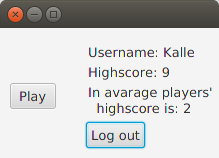
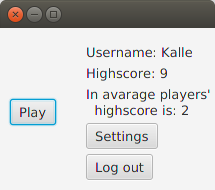
päivitettyjä kuvia

diff --git a/Muistipeli/src/main/java/muistipeli/ui/UI.java b/Muistipeli/src/main/java/muistipeli/ui/UI.java
@@ -90,24 +90,28 @@ public class UI extends Application {
         componentsReg.getChildren().add(registerReg);
 
         Scene reg = new Scene(componentsReg);
+        
 
         Label usernameIn = new Label("");
         Button logOut = new Button("Log out");
         Button play = new Button("Play");
+        Button settings = new Button("Settings");
         Label result = new Label("");
         Label highScore = new Label("");
         Label avarage = new Label("");
-        usernameIn.setPadding(new Insets(0, 2, 2, 2));
-        logOut.setPadding(new Insets(5, 5, 5, 5));
-        highScore.setPadding(new Insets(2, 2, 2, 2));
-        avarage.setPadding(new Insets(2, 2, 6, 2));
+//        usernameIn.setPadding(new Insets(0, 2, 2, 2));
+//        logOut.setPadding(new Insets(5, 5, 5, 5));
+//        highScore.setPadding(new Insets(2, 2, 2, 2));
+//        avarage.setPadding(new Insets(2, 2, 6, 2));
 
         VBox menu = new VBox();
         menu.setPadding(new Insets(0, 0, 0, 30));
+        menu.setSpacing(5);
 
         menu.getChildren().add(usernameIn);
         menu.getChildren().add(highScore);
         menu.getChildren().add(avarage);
+        menu.getChildren().add(settings);
         menu.getChildren().add(logOut);
 
         BorderPane componentsIn = new BorderPane();
@@ -117,6 +121,39 @@ public class UI extends Application {
         componentsIn.setRight(menu);
 
         Scene in = new Scene(componentsIn);
+        
+        
+        Button changePassword = new Button("Change password");
+        Button deleteProfile = new Button("Delete profile");
+        Button backFromSettings = new Button("Back");
+        
+        VBox settingsMenu = new VBox();
+        settingsMenu.setSpacing(5);
+        settingsMenu.setPadding(new Insets(10, 10, 10, 10));
+        
+        settingsMenu.getChildren().add(backFromSettings);
+        settingsMenu.getChildren().add(changePassword);
+        settingsMenu.getChildren().add(deleteProfile);
+        
+        Scene settingsScene = new Scene(settingsMenu);
+        
+        
+        Label newPasswordLabel = new Label("New password");
+        TextField newPassword = new TextField();
+        Button changePasswordNow = new Button("Change password");
+        Button backToSettings = new Button("Back");
+        
+        VBox changePasswordMenu = new VBox();
+        changePasswordMenu.setSpacing(5);
+        changePasswordMenu.setPadding(new Insets(10, 10, 10, 10));
+        
+        changePasswordMenu.getChildren().add(newPasswordLabel);
+        changePasswordMenu.getChildren().add(newPassword);
+        changePasswordMenu.getChildren().add(changePasswordNow);
+        changePasswordMenu.getChildren().add(backToSettings);
+        
+        Scene changePasswordScene = new Scene(changePasswordMenu);
+        
 
         register.setOnAction((event) -> {
             username.setText("");
@@ -134,6 +171,7 @@ public class UI extends Application {
         logIn.setOnAction((event) -> {
             if (service.logIn(username.getText(), password.getText())) {
 
+                settings.setVisible(true);
                 usernameIn.setText("Username: " + service.getLoggedIn().getUsername());
                 highScore.setText("Highscore: " + service.getLoggedIn().getHighScore());
                 avarage.setText("In avarage players' \n  highscore is: " + service.getAvarageHighScore());
@@ -145,6 +183,7 @@ public class UI extends Application {
         });
         
         playAsGuest.setOnAction((event) -> {
+            settings.setVisible(false);
             usernameIn.setText("");
             highScore.setText("");
             avarage.setText("In avarage players' \n  highscore is: " + service.getAvarageHighScore());
@@ -163,6 +202,34 @@ public class UI extends Application {
             password.setText("");
             result.setText("");
             window.setScene(home);
+        });
+        
+        settings.setOnAction((event) -> {
+            window.setScene(settingsScene);
+        });
+        
+        changePassword.setOnAction((event) -> {
+            newPassword.setText("");
+            window.setScene(changePasswordScene);
+        });
+        
+        changePasswordNow.setOnAction((event) -> {
+            service.changePassword(newPassword.getText());
+            window.setScene(settingsScene);
+            
+        });
+        
+        backToSettings.setOnAction((event) -> {
+            window.setScene(settingsScene);
+        });
+        
+        deleteProfile.setOnAction((event) -> {
+            service.deleteProfile(service.getLoggedIn().getUsername());
+            window.setScene(home);
+        });
+        
+        backFromSettings.setOnAction((event) -> {
+            window.setScene(in);
         });
 
         window.setScene(home);

diff --git a/Muistipeli/src/test/java/MuistipeliTest.java b/Muistipeli/src/test/java/MuistipeliTest.java
@@ -5,6 +5,7 @@
  */
 
 
+import muistipeli.dao.UserDao;
 import muistipeli.domain.Game;
 import muistipeli.domain.Service;
 import muistipeli.domain.User;
@@ -23,16 +24,19 @@ public class MuistipeliTest {
     
     User user;
     Service service;
+    UserDao userDao;
     
     @Before
     public void setUp() {
         user = new User("Liisa", "l", 5);
         service = new Service();
         service.createProfile("testUser", "p");
+        userDao = new UserDao();
     }
     
     @After
     public void tearDown() {
+        service.deleteProfile("testUser");
         service.deleteProfile("testUser2");
     }
     
@@ -52,7 +56,7 @@ public class MuistipeliTest {
     }
     
     @Test
-    public void createProfileWhenUsernameDoNotExist() {
+    public void createProfileWhenUsernameDoesNotExist() {
         assertEquals(true, service.createProfile("testUser2", "p2"));
     }
     
@@ -67,7 +71,7 @@ public class MuistipeliTest {
     }
     
     @Test
-    public void logInWhenUsernameDoNotExist() {
+    public void logInWhenUsernameDoesNotExist() {
         assertEquals(false, service.logIn("testUser3", "p"));
     }
     
@@ -79,7 +83,7 @@ public class MuistipeliTest {
     
     @Test
     public void logOutSetsLoggedInToNull() {
-        service.logIn("Liisa", "l");
+        service.logIn("testUser", "p");
         service.logOut();
         assertEquals(null, service.getLoggedIn());
     }
@@ -96,6 +100,28 @@ public class MuistipeliTest {
         Game game = new Game();
         String answer = "" + 0;
         assertEquals(false, game.checkNumberSeries(3, answer));
+    }
+    
+    @Test
+    public void saveResultUpdatesHighscoreWhenNewHighscore() {
+        service.logIn("testUser", "p");
+        service.saveResult(3);
+        assertEquals(3, userDao.read("testUser").getHighScore());
+    }
+    
+    @Test
+    public void saveResultDoesNotUpdateHighscoreWhenNotNewHighscore() {
+        service.logIn("testUser", "p");
+        service.saveResult(5);
+        service.saveResult(3);
+        assertEquals(5, userDao.read("testUser").getHighScore());
+    }
+    
+    @Test
+    public void changePassword() {
+        service.logIn("testUser", "p");
+        service.changePassword("p3");
+        assertEquals("p3", service.getLoggedIn().getPassword());
     }
 
     

diff --git a/Muistipeli/src/main/java/muistipeli/domain/Service.java b/Muistipeli/src/main/java/muistipeli/domain/Service.java
@@ -41,17 +41,6 @@ public class Service {
         
         return false;
     }
-    
-    /**
-    * Metodi poistaa käyttäjäprofiili jonka käyttäjätunnus on 
-    * sama kuin annettu parametri
-    *
-    * @param   username   käyttäjätunnus
-    * 
-    */
-    public void deleteProfile(String username) {
-        userDao.delete(username);
-    }
 
     /**
     * Metodi tarkistaa ensin että onko käyttäjätunnus olemassa ja onko 
@@ -106,6 +95,28 @@ public class Service {
     */
     public void logOut() {
         loggedIn = null;
+    }
+    
+    /**
+    * Metodi vaihtaa käyttäjän salasana parametrina annetulle salasanalle.
+    *
+    * @param   password   uusi salasana
+    * 
+    */
+    public void changePassword(String password) {
+        userDao.changePassword(loggedIn.getUsername(), password);
+        loggedIn.setPassword(password);
+    }
+    
+    /**
+    * Metodi poistaa käyttäjäprofiili jonka käyttäjätunnus on 
+    * sama kuin annettu parametri
+    *
+    * @param   username   käyttäjätunnus
+    * 
+    */
+    public void deleteProfile(String username) {
+        userDao.delete(username);
     }
     
 }

diff --git a/Muistipeli/src/main/java/muistipeli/dao/UserDao.java b/Muistipeli/src/main/java/muistipeli/dao/UserDao.java
@@ -135,4 +135,25 @@ public class UserDao {
         }
         return 100;
     }
+    
+    /**
+    * Metodi muodostaa yhteyden tietokantaan ja vaihtaa parametrina annetun
+    * käyttäjän salasana.
+    *
+    * @param   u   käyttäjätunnus
+    * @param   p   uusi salasana
+    * 
+    */
+    public void changePassword(String u, String p) {
+        try {
+            Connection connection = DriverManager.getConnection("jdbc:sqlite:muistipeli.db", "sa", "");
+            PreparedStatement statement = connection.prepareStatement("UPDATE User SET password = ? WHERE username = ?");
+            statement.setString(1, p);
+            statement.setString(2, u);
+            statement.executeUpdate();
+            connection.close();
+        } catch (SQLException e) {
+            System.out.println("Database failure " + e.getMessage());
+        }
+    }
 }

diff --git a/Muistipeli/src/main/java/muistipeli/domain/Game.java b/Muistipeli/src/main/java/muistipeli/domain/Game.java
@@ -47,7 +47,7 @@ public class Game {
     * @return true jos kaikki numerot olivat oikein, muuten false
     */
     public boolean checkNumberSeries(int n, String answer) {
-        if (answer.equals("")) {
+        if (answer.length() != n) {
             return false;
         }
         String[] pieces = answer.split("");

diff --git a/Muistipeli/src/main/java/muistipeli/domain/User.java b/Muistipeli/src/main/java/muistipeli/domain/User.java
@@ -32,6 +32,10 @@ public class User {
         return password;
     }
     
+    public void setPassword(String p) {
+        password = p;
+    }
+    
     public int getHighScore() {
         return highScore;
     }
